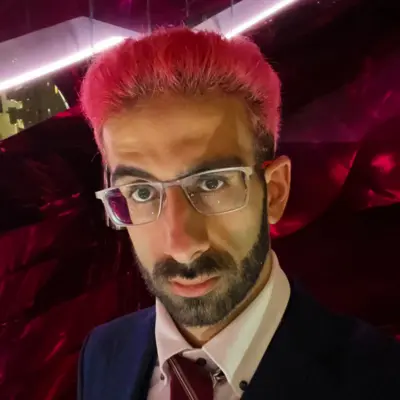
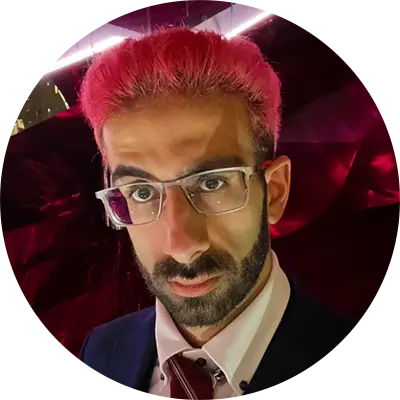
remove headerimage feathers

diff --git a/src/components/portfolio/header/HeaderImage.vue b/src/components/portfolio/header/HeaderImage.vue
@@ -6,7 +6,7 @@
     <ResponsiveImage
       :src="`/media/portfolio/pp/${index}.webp`"
       alt="Yehonatan Simian - Profile Picture"
-      imgClass="rounded-full aspect-ratio-1/1 transition-all duration-500 dark:shadow-[0_0_8px_#00b3ff]"
+      imgClass="rounded-full aspect-ratio-1/1 transition-all duration-500 shadow-[0_0_12px_#666] dark:shadow-[0_0_8px_#00b3ff]"
       fetchpriority="high"
     />
   </div>
